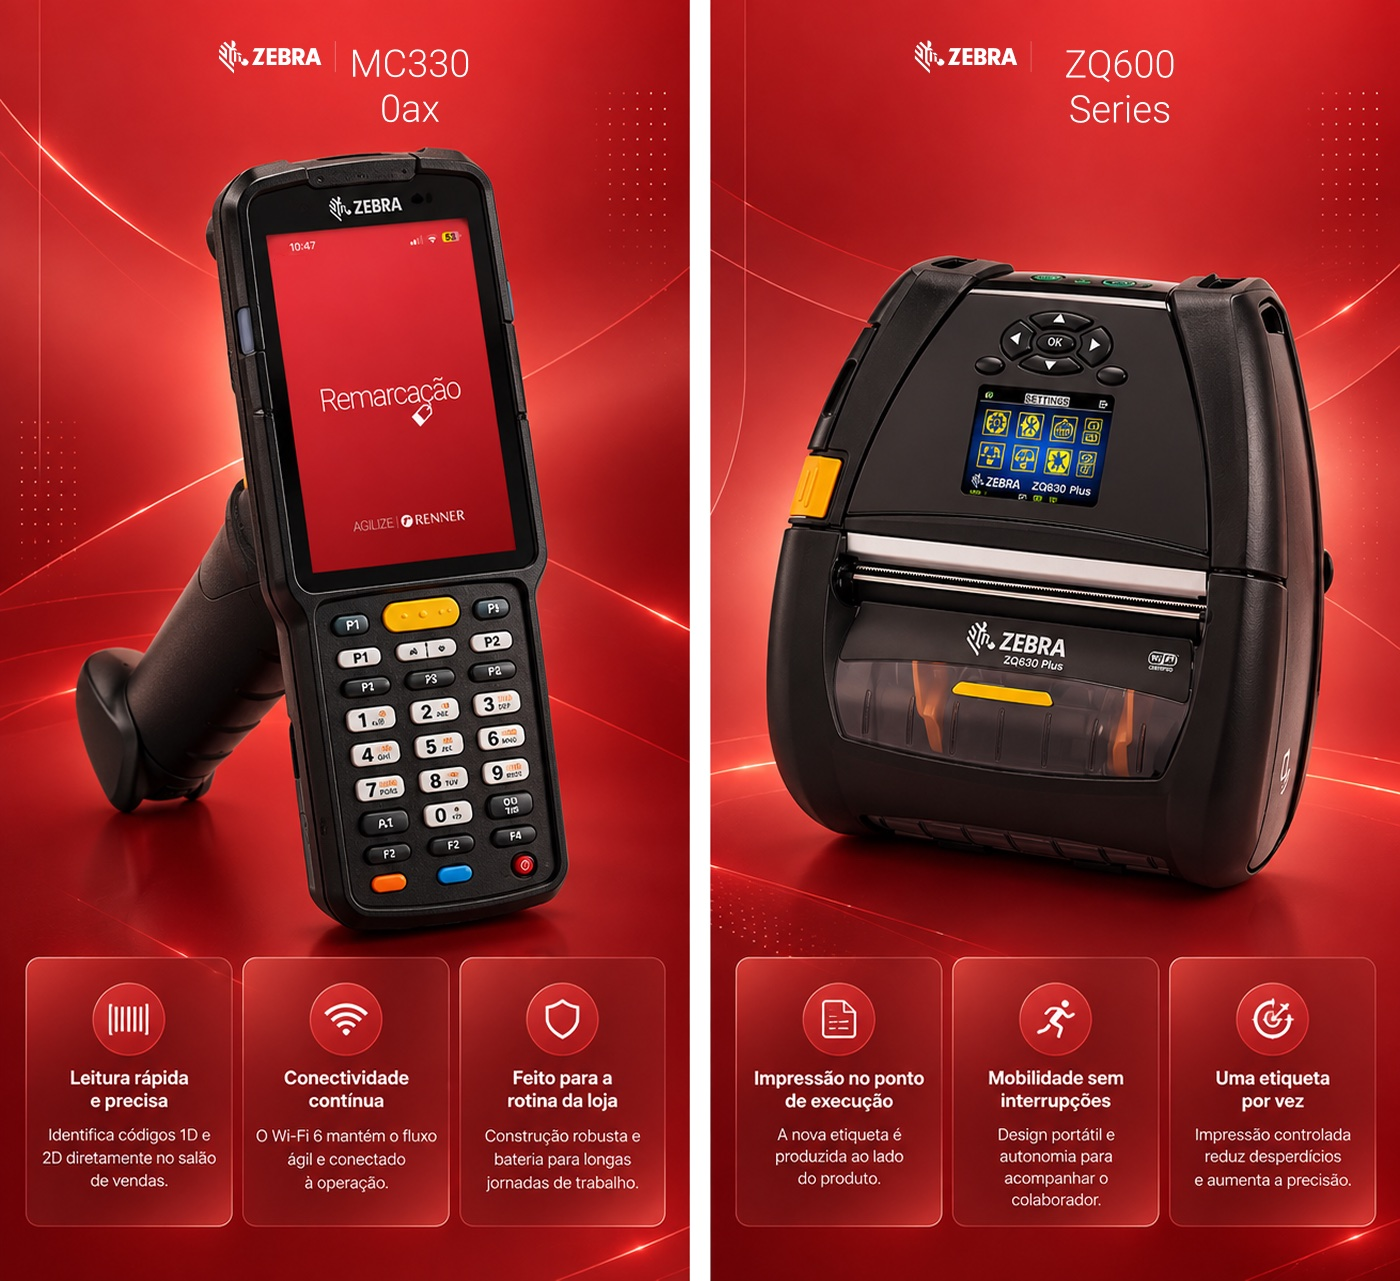
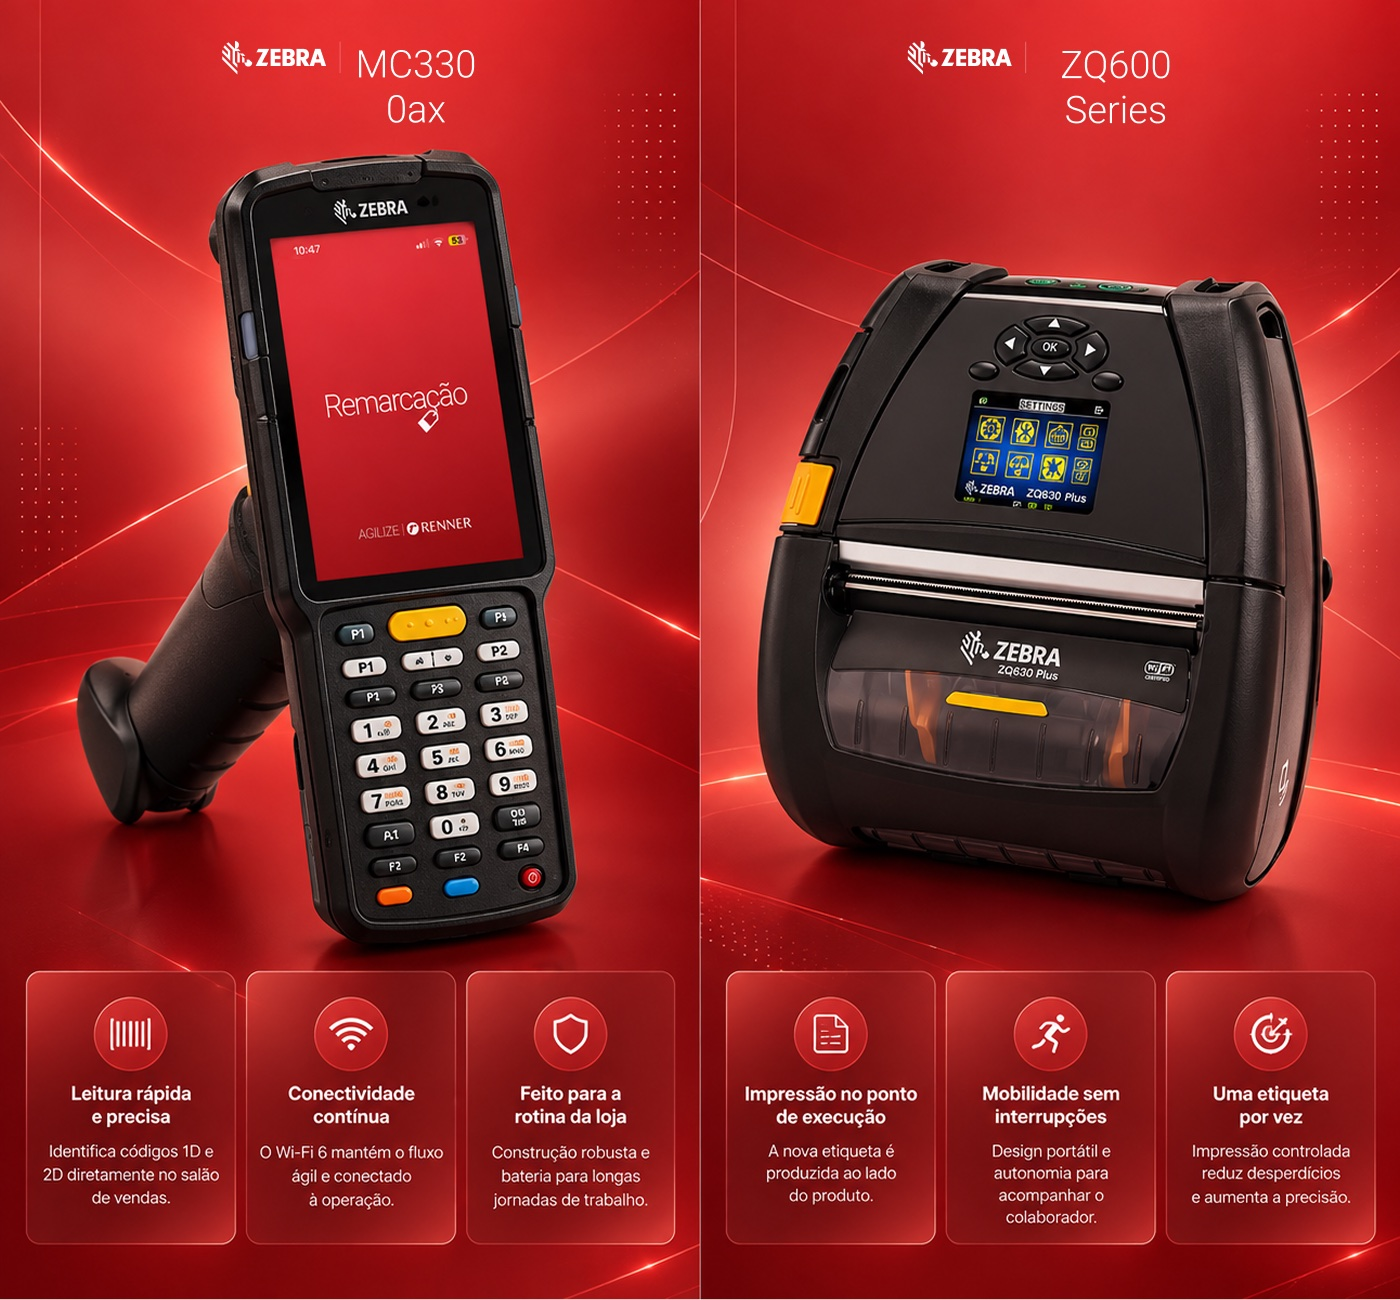
Replace Renner Remarcação equipment image with final version

diff --git a/app/HomeExperience.tsx b/app/HomeExperience.tsx
@@ -135,7 +135,7 @@ const rennerRemarcacaoProjectImages = [
   { src: "/renner-remarcacao-02.jpg", width: 1400, height: 2993 },
   { src: "/renner-remarcacao-03.jpg", width: 1400, height: 2993 },
   { src: "/renner-remarcacao-04.jpg", width: 1400, height: 2143 },
-  { src: "/renner-remarcacao-05.jpg", width: 1400, height: 1281 },
+  { src: "/renner-remarcacao-05.jpg", width: 1400, height: 1300 },
   { src: "/renner-remarcacao-06.jpg", width: 1400, height: 2555 },
   { src: "/renner-remarcacao-07.jpg", width: 1400, height: 2694 },
   { src: "/renner-remarcacao-08.jpg", width: 1400, height: 2100 },
